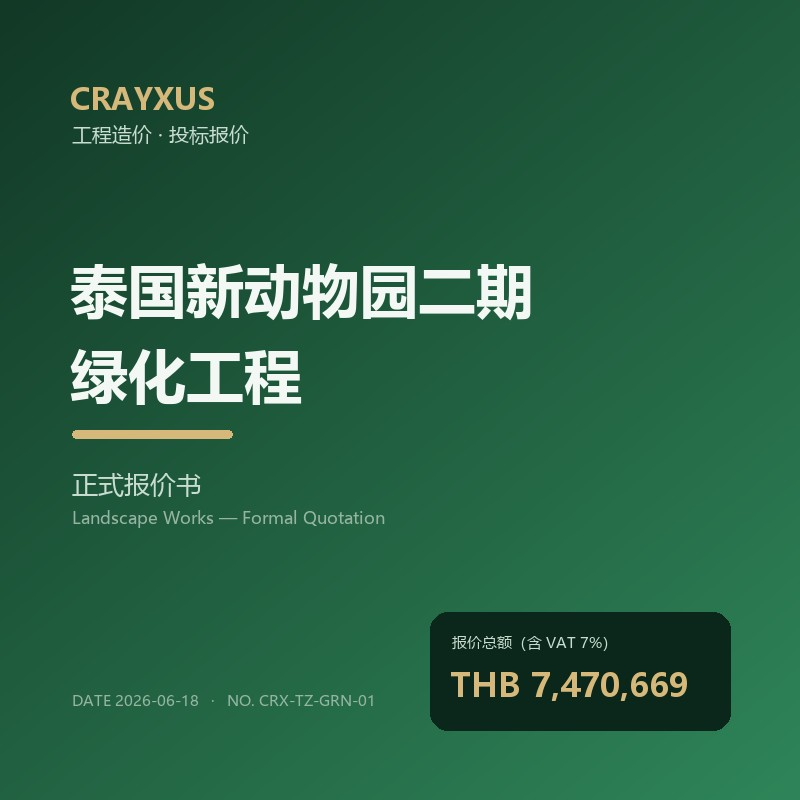
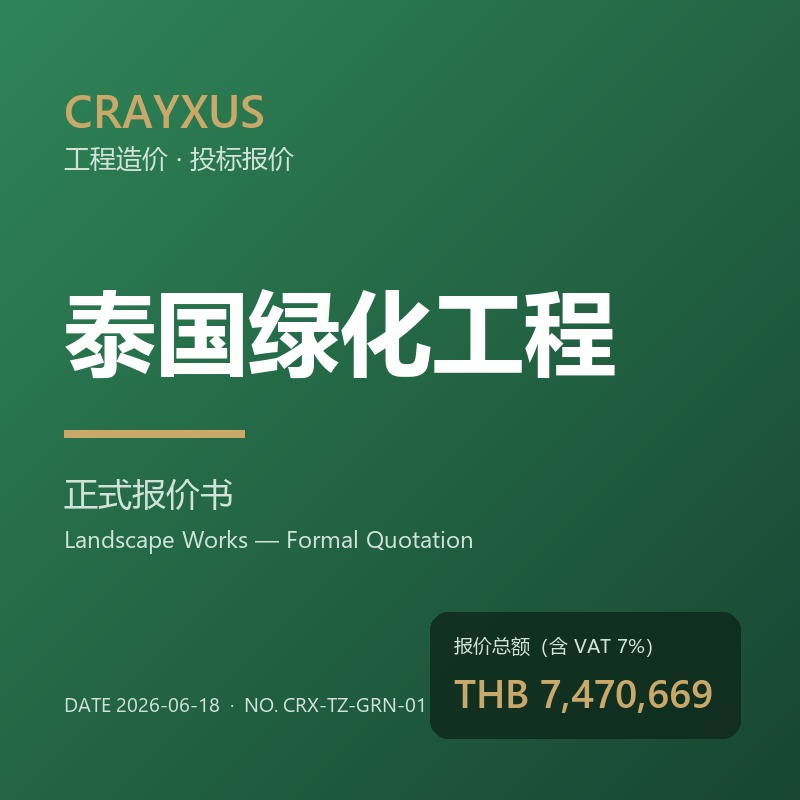
彻底去掉动物园字样：重绘顶部封面logo + 改尾部文字 + 封面缓存g3

diff --git a/thaizoo-green-7c3e9a1b.html b/thaizoo-green-7c3e9a1b.html
@@ -10,20 +10,20 @@
 <meta property="og:url" content="https://crayxus.com.au/thaizoo-green-7c3e9a1b.html">
 <meta property="og:title" content="泰国绿化工程正式报价书">
 <meta property="og:description" content="含12个月成活养护 · 报价总额 THB 7,470,669（含 VAT 7%）。">
-<meta property="og:image" content="https://crayxus.com.au/thaizoo-green-cover.jpg?v=g2">
-<meta property="og:image:secure_url" content="https://crayxus.com.au/thaizoo-green-cover.jpg?v=g2">
+<meta property="og:image" content="https://crayxus.com.au/thaizoo-green-cover.jpg?v=g3">
+<meta property="og:image:secure_url" content="https://crayxus.com.au/thaizoo-green-cover.jpg?v=g3">
 <meta property="og:image:type" content="image/jpeg">
 <meta property="og:image:width" content="800">
 <meta property="og:image:height" content="800">
 <meta property="og:image:alt" content="泰国绿化工程正式报价">
 <meta property="og:locale" content="zh_CN">
-<meta itemprop="image" content="https://crayxus.com.au/thaizoo-green-cover.jpg?v=g2">
-<meta name="image" content="https://crayxus.com.au/thaizoo-green-cover.jpg?v=g2">
-<link rel="image_src" href="https://crayxus.com.au/thaizoo-green-cover.jpg?v=g2">
+<meta itemprop="image" content="https://crayxus.com.au/thaizoo-green-cover.jpg?v=g3">
+<meta name="image" content="https://crayxus.com.au/thaizoo-green-cover.jpg?v=g3">
+<link rel="image_src" href="https://crayxus.com.au/thaizoo-green-cover.jpg?v=g3">
 <meta name="twitter:card" content="summary_large_image">
 <meta name="twitter:title" content="泰国绿化工程正式报价书">
-<meta name="twitter:image" content="https://crayxus.com.au/thaizoo-green-cover.jpg?v=g2">
-<link rel="icon" href="https://crayxus.com.au/thaizoo-green-cover.jpg?v=g2">
+<meta name="twitter:image" content="https://crayxus.com.au/thaizoo-green-cover.jpg?v=g3">
+<link rel="icon" href="https://crayxus.com.au/thaizoo-green-cover.jpg?v=g3">
 <style>
 :root{
  --ink:#1c2a22;--mut:#8a988f;--soft:#566159;--line:#e9efea;--bg:#f7faf8;--card:#fff;
@@ -118,7 +118,7 @@ footer{margin-top:34px;background:linear-gradient(160deg,var(--lvd),#143d29);col
 <body>
 <div class="wrap">
 
-  <img class="share-cover" src="thaizoo-green-cover.jpg?v=g2" alt="泰国绿化工程报价封面">
+  <img class="share-cover" src="thaizoo-green-cover.jpg?v=g3" alt="泰国绿化工程报价封面">
 
   <header>
     <div class="eyebrow">CRAYXUS · 工程造价 / 投标报价</div>
@@ -291,7 +291,7 @@ footer{margin-top:34px;background:linear-gradient(160deg,var(--lvd),#143d29);col
   <div class="fwrap">
     <div>
       <div class="b">CRAYXUS</div>
-      <div class="s">工程造价 · 投标报价 · 假山 / 绿化 / 房建<br>泰国新动物园二期(ZPO · คลองหก)</div>
+      <div class="s">工程造价 · 投标报价 · 假山 / 绿化 / 房建<br>泰国绿化工程二期(คลองหก)</div>
     </div>
     <div class="r">
       报价编号 CRX-TZ-GRN-01 · 2026-06-18<br>
